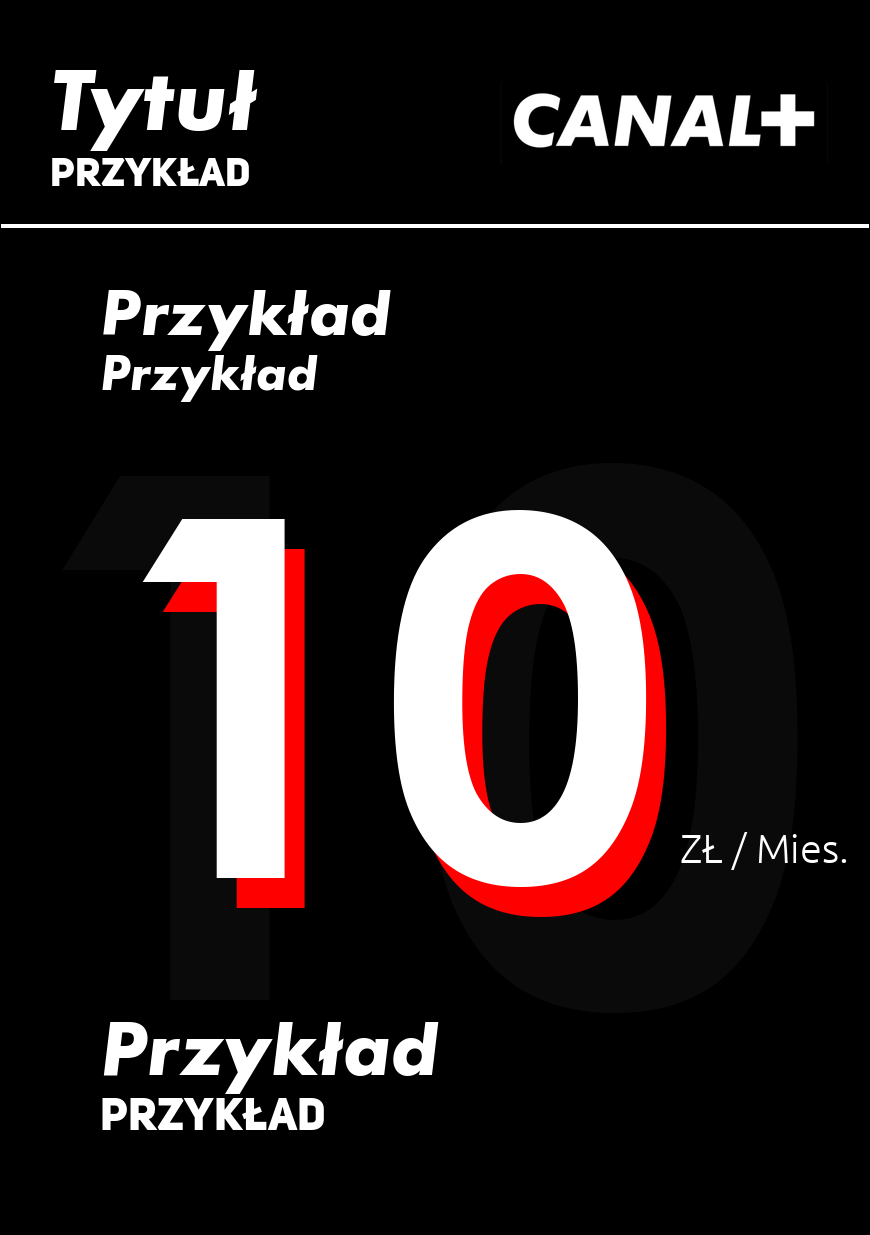
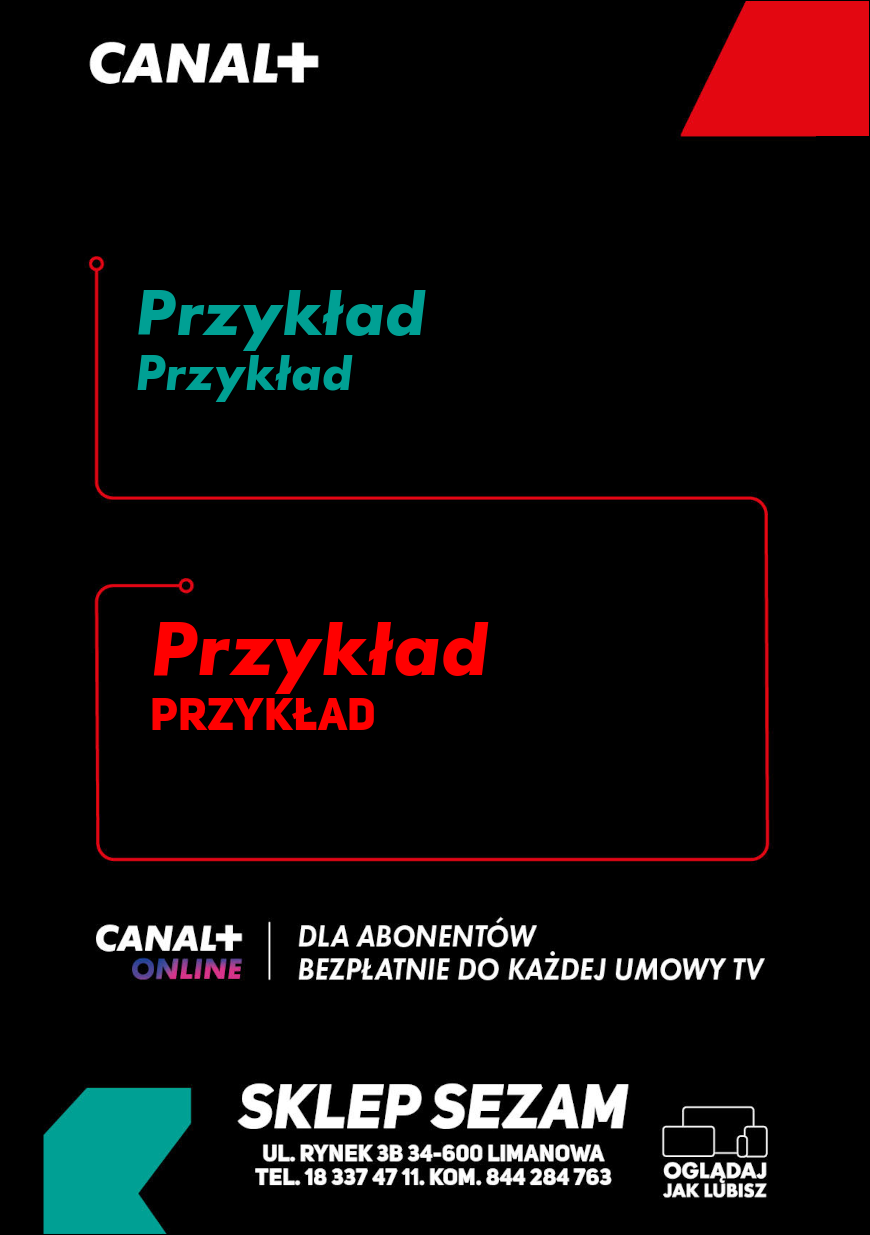
Add another Canal+ Style

diff --git a/html.html b/html.html
@@ -9,6 +9,7 @@
         <option value="option5">Telefony</option>
         
         <option value="canalp">Canal+</option>
+        <option value="canalp_1">Canal+ | 1</option>
     </select><br>
 	
 
@@ -114,11 +115,38 @@
 
 
 
+        <div id="canal_input_simple" style="display: none;">
+
+
+
+
+            <p><em>Styl Canal+ Prosty bez ceny</em></p>
+
+        <label for="c1">Wyróżnienie 1 (Nad Ceną):</label><br>
+        <input type="text" id="c1" name="c1" style="width: 200px;"><br>
+        <label for="c2">Opis 1:</label><br>
+        <textarea id="c2" name="c2" rows="2" cols="35"></textarea><br>
+
+        <h2>  </h2>
+        <label for="c3">Wyróżnienie 2 (Pod Ceną):</label><br>
+        <input type="text" id="c3" name="c3" style="width: 200px;"><br>
+        <label for="user_input8">Opis 3:</label><br>
+        <textarea id="c4" name="c4" rows="2" cols="35"></textarea><br>
+        <h2>  </h2>
+
+        
+        </div>
+
+
+
+
+
+
 
 
 	<h1>  </h1>	
     <label for="price">Cena:</label><br>
     <input type="text" id="price" name="price" style="width: 200px;"><br>
-	
+	<h1></h1>
     <input type="submit" name="submit" value="Wygeneruj">
 </form>

diff --git a/gen/canalp_1.py b/gen/canalp_1.py
@@ -1,0 +1,145 @@
+import os
+import html
+from PIL import Image, ImageDraw, ImageFont
+
+def generate_image_from_text_files(text_files, output_image, lines_y, image_mapping, image_data):
+    # Set up image parameters
+    image_width = 870
+    image_height = 1235
+    background_color = (0, 0, 0)  # Black
+
+    # Create new image
+    image = Image.new("RGB", (image_width, image_height), background_color)
+    draw = ImageDraw.Draw(image)
+    
+
+
+    # Paste PNG images specified in the image_data dictionary
+    for image_file, image_properties in image_data.items():
+        # Get the absolute path to the image file
+        image_file = os.path.join(os.path.dirname(__file__), image_file)
+        
+        # Open the PNG image
+        png_image = Image.open(image_file)
+        
+        # Resize the PNG image if specified
+        if 'scale' in image_properties:
+            scale = image_properties['scale']
+            png_image = png_image.resize((int(png_image.width * scale), int(png_image.height * scale)))
+
+        # Get the position for pasting the PNG image
+        image_x = image_properties.get('x', 0)
+        image_y = image_properties.get('y', 0)
+
+        # Paste the PNG image onto the image
+        image.paste(png_image, (image_x, image_y), png_image)
+
+    # Iterate over text files
+    for text_file, properties in text_files.items():
+        # Get the absolute path to the text file
+        text_file = os.path.join(os.path.dirname(__file__), text_file)
+
+        # Read text from file with utf-8 encoding
+        with open(text_file, 'r', encoding='utf-8') as file:
+            text = file.read().strip()
+        # Escape html chars if theres one
+        text = html.unescape(text)
+        # Remove the leftover symbols
+        text = text.replace('\\"', '"')
+
+        # Set text properties
+        font_size = properties.get('font_size', 20)
+        font_color = properties.get('text_color', (0, 0, 0))  # Default: black
+        text_x = properties.get('x', 0)
+        text_y = properties.get('y', 0)
+        
+        # Load font if specified
+        font = None
+        font_file = properties.get('font_file')
+        if font_file:
+            font_path = os.path.join(os.path.dirname(__file__), font_file)
+            font = ImageFont.truetype(font_path, font_size)
+
+        # Draw text on image
+        draw.text((text_x, text_y), text, fill=font_color, font=font)
+
+        # Check if the current text file is the one to apply image mapping
+        if "title.txt" in os.path.basename(text_file):
+            print(f"Text read from title.txt: {text}")  # Debug
+            # Convert everything to lowercases
+            image_mapping_lower = {key.lower(): value for key, value in image_mapping.items()}
+            if text.lower() in image_mapping_lower:
+                print(f"Detected {text} in {text_file}, applying image mapping...")  # Debug
+                # Get the filename of the corresponding PNG image
+                png_image_file = os.path.join(os.path.dirname(__file__), image_mapping_lower[text.lower()])
+                # Open and paste the PNG image onto the image
+                png_image = Image.open(png_image_file)
+                image.paste(png_image, (35, 72))  # Adjust position as needed  | text_x + 150, text_y)
+
+    # Draw multiple horizontal lines
+    for line_y in lines_y:
+        draw.line([(0, line_y), (image_width, line_y)], fill=(255, 255, 255), width=4)  # Adjust line properties as needed
+
+
+    # Draw outline for better cutting etc...
+    draw.rectangle([(0, 0), (image_width - 1, image_height - 1)], outline=(0, 0, 0))
+
+    # Save image
+    image.save(output_image)
+    print("Image generated successfully!")
+
+# Example usage:
+text_files = {
+   # "title.txt": {"x": 50, "y": 50, "font_size": 80, "text_color": (255, 255, 255), "font_file": "canal+/canal1.ttf"},
+   # "desc.txt": {"x": 50, "y": 155, "font_size": 40, "text_color": (255, 255, 255), "font_file": "us_heavy.otf"},
+
+    "sub1.txt": {"x": 135, "y": 275, "font_size": 60, "text_color": (0, 160, 148), "font_file": "canal+/canal1.ttf"},
+    "text1.txt": {"x": 135, "y": 345, "font_size": 45, "text_color": (0, 160, 148), "font_file": "canal+/canal1.ttf"},
+
+   # "././price.txt": {"x": 0, "y": 265, "font_size": 730, "text_color": (10, 10, 10), "font_file": "fonts/GOTHICB0.TTF"},
+   # "./price.txt": {"x": 120, "y": 405, "font_size": 500, "text_color": (255, 0, 0), "font_file": "fonts/GOTHICB0.TTF"},
+   # "price.txt": {"x": 100, "y": 375, "font_size": 500, "text_color": (255, 255, 255), "font_file": "fonts/GOTHICB0.TTF"},
+
+   # "default_1.txt": {"x": 680, "y": 825, "font_size": 40, "text_color": (255, 255, 255), "font_file": "fonts/Ubuntu-L.ttf"},
+
+    "sub3.txt": {"x": 150, "y": 605, "font_size": 70, "text_color": (255, 0, 0), "font_file": "canal+/canal1.ttf"},
+    "text3.txt": {"x": 150, "y": 695, "font_size": 45, "text_color": (255, 0, 0), "font_file": "us_heavy.otf"},
+
+
+
+
+   
+
+
+}  # Dictionary containing text file paths and their properties
+
+lines_y = []  # List of y-coordinates for the lines | 205,390,590,790
+
+image_mapping = {
+   # "HP": "HP.png", # For canal+ theres no mapping!
+   # "SAMSUNG": "SAMSUNG.png",
+   # "XIAOMI": "XIAOMI.png",
+   # "PHILIPS": "PHILIPS.png",
+   # "FINLUX": "FINLUX.png",
+   # "TOSHIBA": "TOSHIBA.png",
+   # "LG": "LG.png",
+   # "TELEFUNKEN": "TELEFUNKEN.png",
+   # "NIKO": "NIKO.png",
+   # "HISENSE": "HISENSE.png", 
+   # "LENOVO": "LENOVO.png",
+}  # Dictionary containing text content and corresponding PNG image filenames
+
+image_data = {
+    "canal+/canalp_1.png": {"x": 0, "y": 0, "scale": 1},
+  #  "tlo1.png": {"x": 35, "y": 72, "scale": 1},
+  #  "tlo.png": {"x": 35, "y": 1150, "scale": 10},
+
+
+  #  "check.png": {"x": 17, "y": 227, "scale": 0.5},
+  #  "check2.png": {"x": 17, "y": 417, "scale": 0.5},
+  #  "check3.png": {"x": 17, "y": 617, "scale": 0.5},
+  #  "question.png": {"x": 17, "y": 817, "scale": 0.5},
+}  # Dictionary containing PNG image file paths and their properties
+
+output_image_path = "laptop.png"  # Replace with the desired output image filename
+generate_image_from_text_files(text_files, output_image_path, lines_y, image_mapping, image_data)
